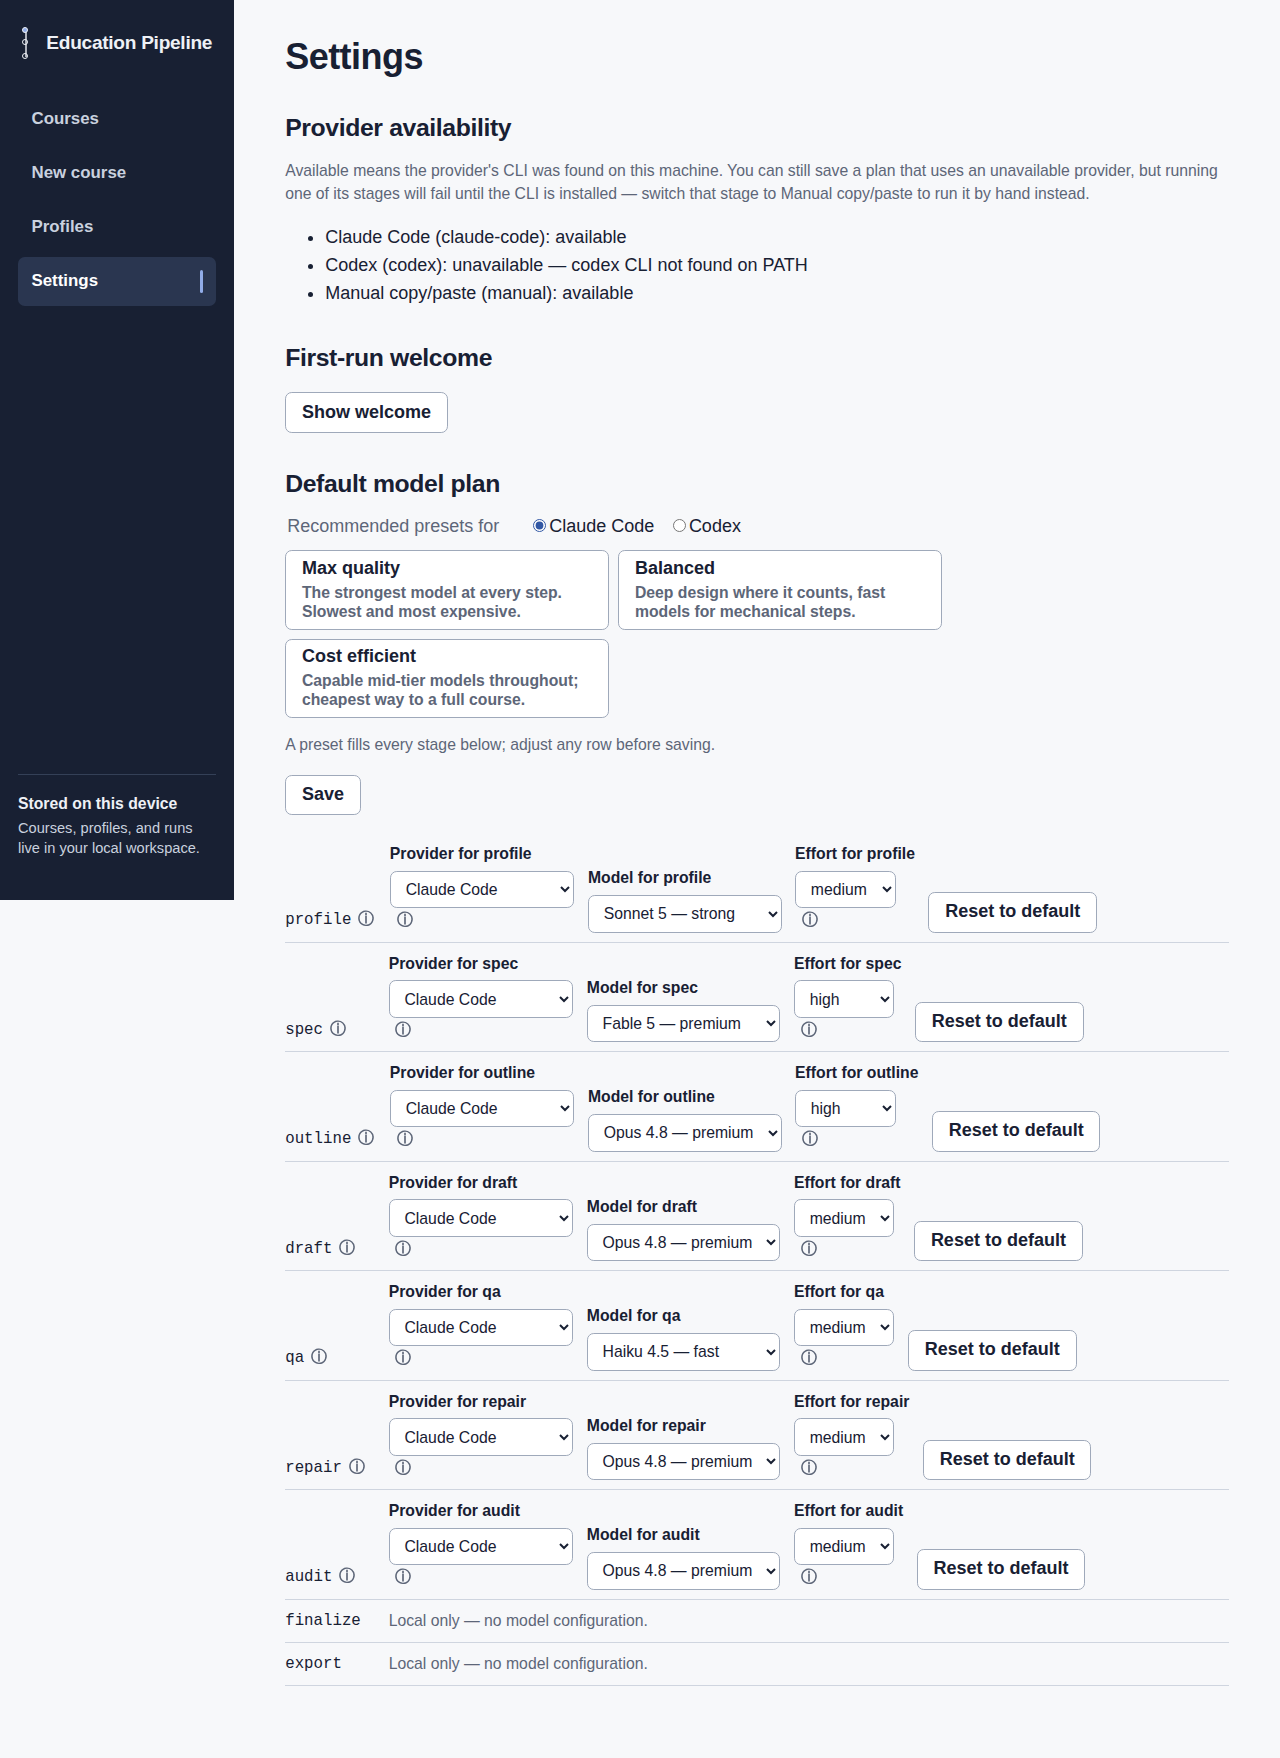
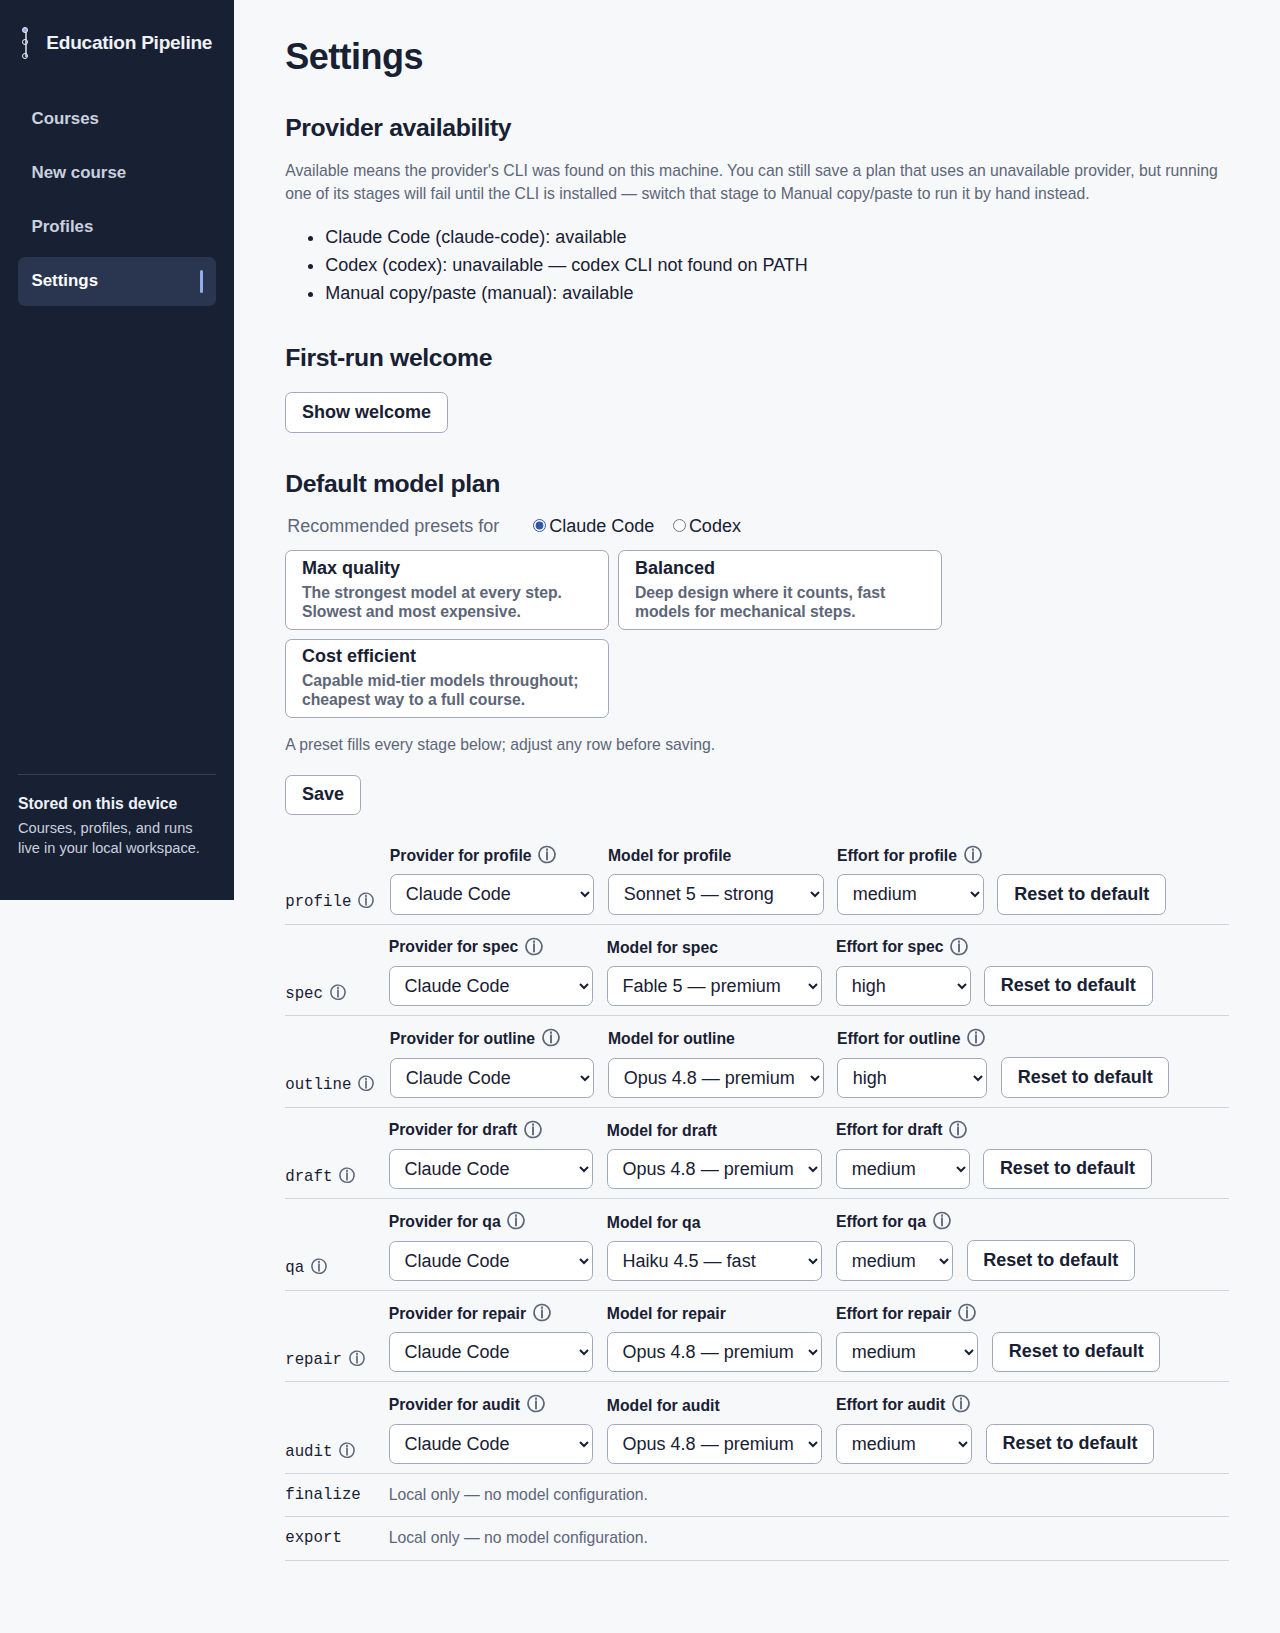
fix(web): align plan-row headings, selects, and info tips on one grid line
The Provider/Effort columns carried their info tips on a third line below
the select while the Model column had only two lines, so the bottom-aligned
row left the Model heading drooping and the tips dangling at uneven
heights. Every column now shares one structure — heading line (label text
with its tip beside it) over the control — so headings, selects, and the
reset button all line up. Also refreshes the smoke-test screenshot.

Claude-Session: https://claude.ai/code/session_01Gato8r5c65aAJvMbiq3eQa

diff --git a/web/src/components/PlanStageRow.tsx b/web/src/components/PlanStageRow.tsx
@@ -30,10 +30,11 @@ export default function PlanStageRow({
   resetValue,
   onChange,
 }: PlanStageRowProps) {
-  // Explicit label/select association. The InfoTip trigger inside each label
-  // is itself a labelable <button>; without htmlFor the label would associate
-  // with the button instead of the select.
+  // Explicit label/select association. The InfoTip trigger is a labelable
+  // <button>, so it lives on the heading line beside the label, never inside
+  // it — otherwise the label would associate with the button, not the select.
   const providerSelectId = useId();
+  const modelSelectId = useId();
   const effortSelectId = useId();
 
   if (LOCAL_ONLY_STAGES.has(stage.stage)) {
@@ -78,8 +79,11 @@ export default function PlanStageRow({
           <InfoTip label={`${stage.stage} stage`} text={STAGE_HELP[stage.stage]} />
         )}
       </span>
-      <label htmlFor={providerSelectId}>
-        {`Provider for ${stage.stage}`}
+      <div className="plan-stage-field">
+        <span className="plan-stage-field-label">
+          <label htmlFor={providerSelectId}>{`Provider for ${stage.stage}`}</label>
+          <InfoTip label={`provider for ${stage.stage}`} text={PROVIDER_HELP} />
+        </span>
         <select
           id={providerSelectId}
           value={currentProviderId}
@@ -103,11 +107,16 @@ export default function PlanStageRow({
             <option value={MANUAL_PROVIDER}>manual</option>
           )}
         </select>
-        <InfoTip label={`provider for ${stage.stage}`} text={PROVIDER_HELP} />
-      </label>
-      <label>
-        {`Model for ${stage.stage}`}
-        <select value={stage.model ?? ""} onChange={(e) => handleModelChange(e.target.value)}>
+      </div>
+      <div className="plan-stage-field">
+        <span className="plan-stage-field-label">
+          <label htmlFor={modelSelectId}>{`Model for ${stage.stage}`}</label>
+        </span>
+        <select
+          id={modelSelectId}
+          value={stage.model ?? ""}
+          onChange={(e) => handleModelChange(e.target.value)}
+        >
           <option value="">(provider default)</option>
           {models.map((model) => (
             <option key={model.id} value={model.id}>
@@ -115,9 +124,12 @@ export default function PlanStageRow({
             </option>
           ))}
         </select>
-      </label>
-      <label htmlFor={effortSelectId}>
-        {`Effort for ${stage.stage}`}
+      </div>
+      <div className="plan-stage-field">
+        <span className="plan-stage-field-label">
+          <label htmlFor={effortSelectId}>{`Effort for ${stage.stage}`}</label>
+          <InfoTip label={`effort for ${stage.stage}`} text={EFFORT_HELP} />
+        </span>
         <select
           id={effortSelectId}
           value={stage.effort ?? "default"}
@@ -130,8 +142,7 @@ export default function PlanStageRow({
             </option>
           ))}
         </select>
-        <InfoTip label={`effort for ${stage.stage}`} text={EFFORT_HELP} />
-      </label>
+      </div>
       <button type="button" onClick={resetToDefault}>
         Reset to default
       </button>

diff --git a/web/src/styles.css b/web/src/styles.css
@@ -739,6 +739,11 @@ pre.log { max-height: 20rem; overflow-y: auto; font-size: 0.875rem; }
   border-bottom: 1px solid var(--ep-color-border);
 }
 .plan-stage-row label { font-size: 0.875rem; }
+/* Uniform column: heading line (label + info tip) over the control, so every
+ * heading and every select lines up across the row. */
+.plan-stage-field { display: flex; flex-direction: column; }
+.plan-stage-field-label { display: flex; align-items: center; min-height: 1.5rem; }
+.plan-stage-field select { display: block; margin-top: var(--ep-space-1); }
 .plan-stage-name { min-width: 5rem; font-family: var(--ep-font-technical); font-size: 0.875rem; }
 .plan-stage-local, .plan-stage-warning { color: var(--ep-color-text-muted); font-size: 0.875rem; }
 .plan-stage-override-error { color: var(--ep-color-danger); font-size: 0.875rem; }
